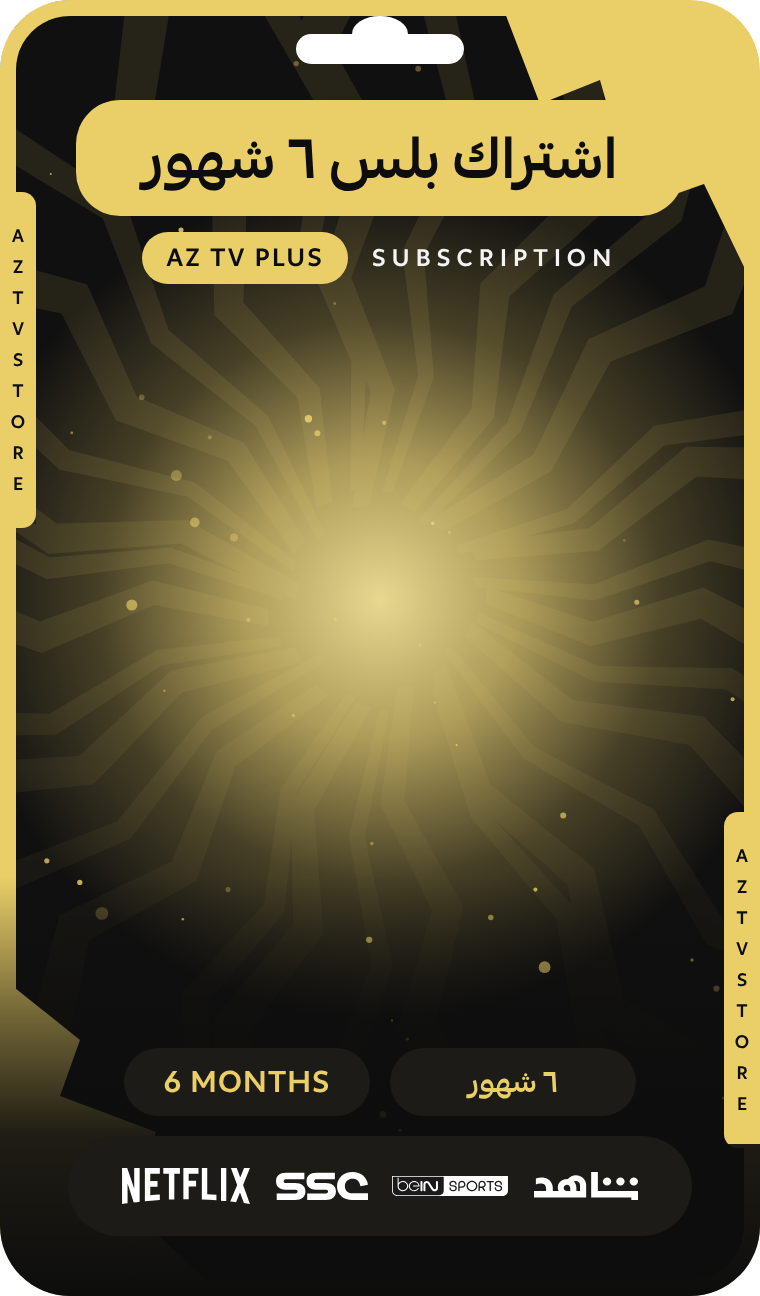
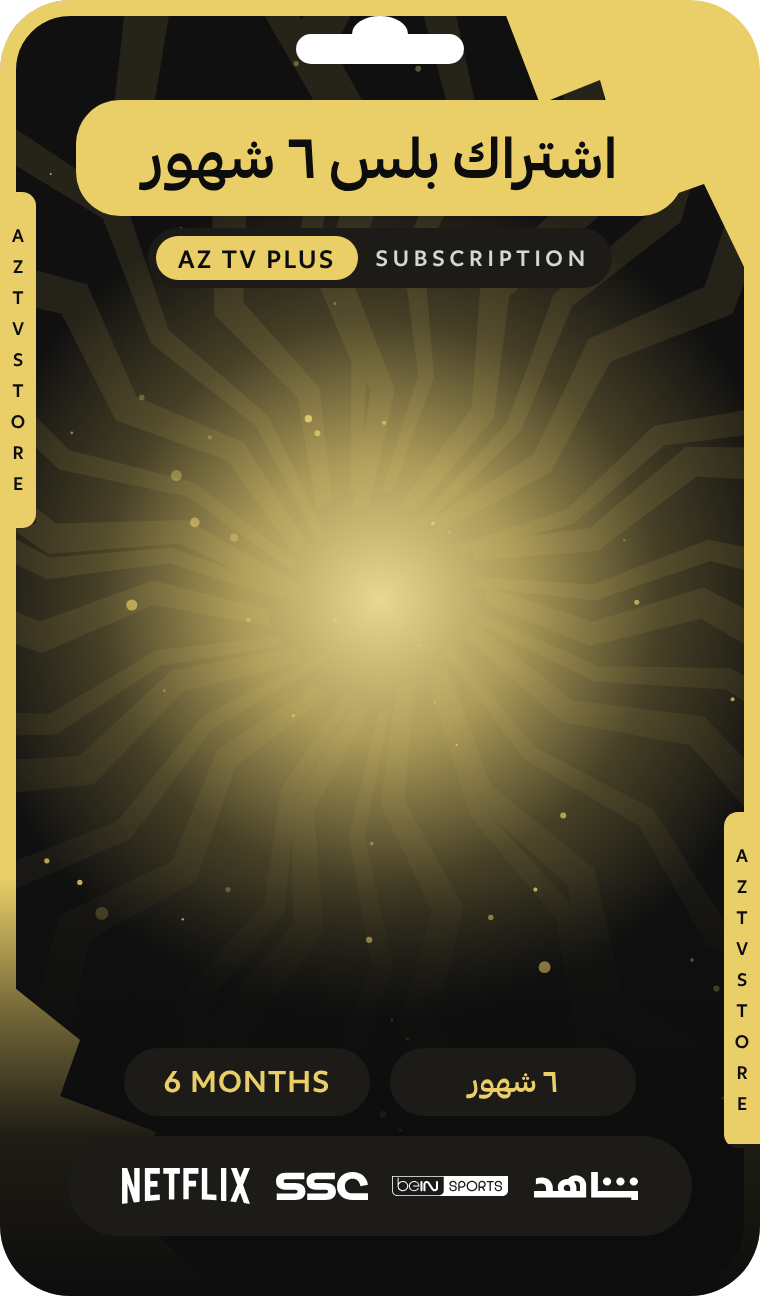
Plus cards: package line is the same pill as on the regular cards
Claude-Session: https://claude.ai/code/session_01FygVLnFo91EcE1sreJGJg8

Changed region(s): [[0.1816, 0.1543, 0.8171, 0.2469]]

diff --git a/05-design/shared/subscription-cards/card.html b/05-design/shared/subscription-cards/card.html
@@ -77,8 +77,9 @@
   .plus .photos img { filter: grayscale(1) sepia(.4) saturate(1.1) contrast(1.1) brightness(.98); }
   /* Plus is kept flat and quiet: solid gold, no gradients, no outlines, no shadows */
   .plus .title { background: var(--gold); color: var(--ink); box-shadow: none; }
-  .plus .sub > span { background: none; box-shadow: none; padding: 0; gap: 12px; color: var(--white); font-size: 12px; letter-spacing: .26em; }
-  .plus .sub b { height: 26px; padding: 0 12px; background: var(--gold); font-size: 12.5px; }
+  /* the package line is the same pill as on the regular cards: dark pill, light chip, no outline */
+  .plus .sub > span { background: #1C1B17; box-shadow: none; color: #D6D6D2; }
+  .plus .sub b { background: var(--gold); }
   .plus .duration span { background: #1C1B17; color: var(--gold); box-shadow: none; }
   .plus .logos { background: #1C1B17; box-shadow: none; }
   .plus .badge span { background: var(--gold); border-color: var(--ink); }

diff --git a/05-design/shared/subscription-cards/README.md b/05-design/shared/subscription-cards/README.md
@@ -57,7 +57,7 @@ Built from `card.html` in the accepted look of card 3, with the card photos 001-
 - **AZ TV Plus cards** (`plus: true`): the black and gold card background, gold title pill with black text, gold «AZ TV PLUS SUBSCRIPTION» line, warm gold-toned portraits, a bright warm light at the burst centre (hides where the rays meet behind the faces), a dark floor, black duration and logo pills with a gold edge.
 - **Renewal cards** (`renew: true`): no faces; three renewal arrows in a black disc at the burst centre (white on AZ TV, gold on Plus).
 - **Package line** under the title (all cards, 2026-10-24): a black pill (no side lines) with the package name in a chip, «AZ TV» (white chip) or «AZ TV PLUS» (gold chip), then «SUBSCRIPTION», or «RENEWAL» on the renewal cards. Replaces the small spaced-out «AZ TV SUBSCRIPTION» line, which was hard to read.
-- **Plus, kept flat (2026-10-24, client: too much going on):** solid gold everywhere, no gradients, outlines or shadows. Flat black background with faint flat gold rays and a few specks of dust, no grain. The package line has no box: a gold «AZ TV PLUS» chip and white «SUBSCRIPTION» beside it. The duration and logo pills are dark grey with no border, the title pill is flat gold, and the centre light is softer.
+- **Plus, kept flat (2026-10-24, client: too much going on):** solid gold everywhere, no gradients, outlines or shadows. Flat black background with faint flat gold rays and a few specks of dust, no grain. The package line is the same pill as on the regular cards (dark grey pill, gold «AZ TV PLUS» chip, «SUBSCRIPTION» beside it), without an outline. The duration and logo pills are dark grey with no border, the title pill is flat gold, and the centre light is softer.
 - **Light on dark photos:** a photo can take `gamma` (below 1 opens the shadows of a dark face without blowing out the highlights; it also trims 1 px off the cut-out edge so no light fringe shows) next to `lift` (overall brightness). Used on cards 7 and 8, where the client found the faces too dark.
 - **Two devices** (card 6): a «جهازين · 2 DEVICES» badge with a two-screens icon above the duration (`badge`); the white kit toned down and the man behind lit and enlarged so the two faces match.
 - **Card backgrounds** (2026-10-24): the AZTVSTORE letters are centred on the visible part of each side tab (the tabs run 6 px past the card edge); the Plus frame, corner shards and tabs are flat gold, with no inner line.
